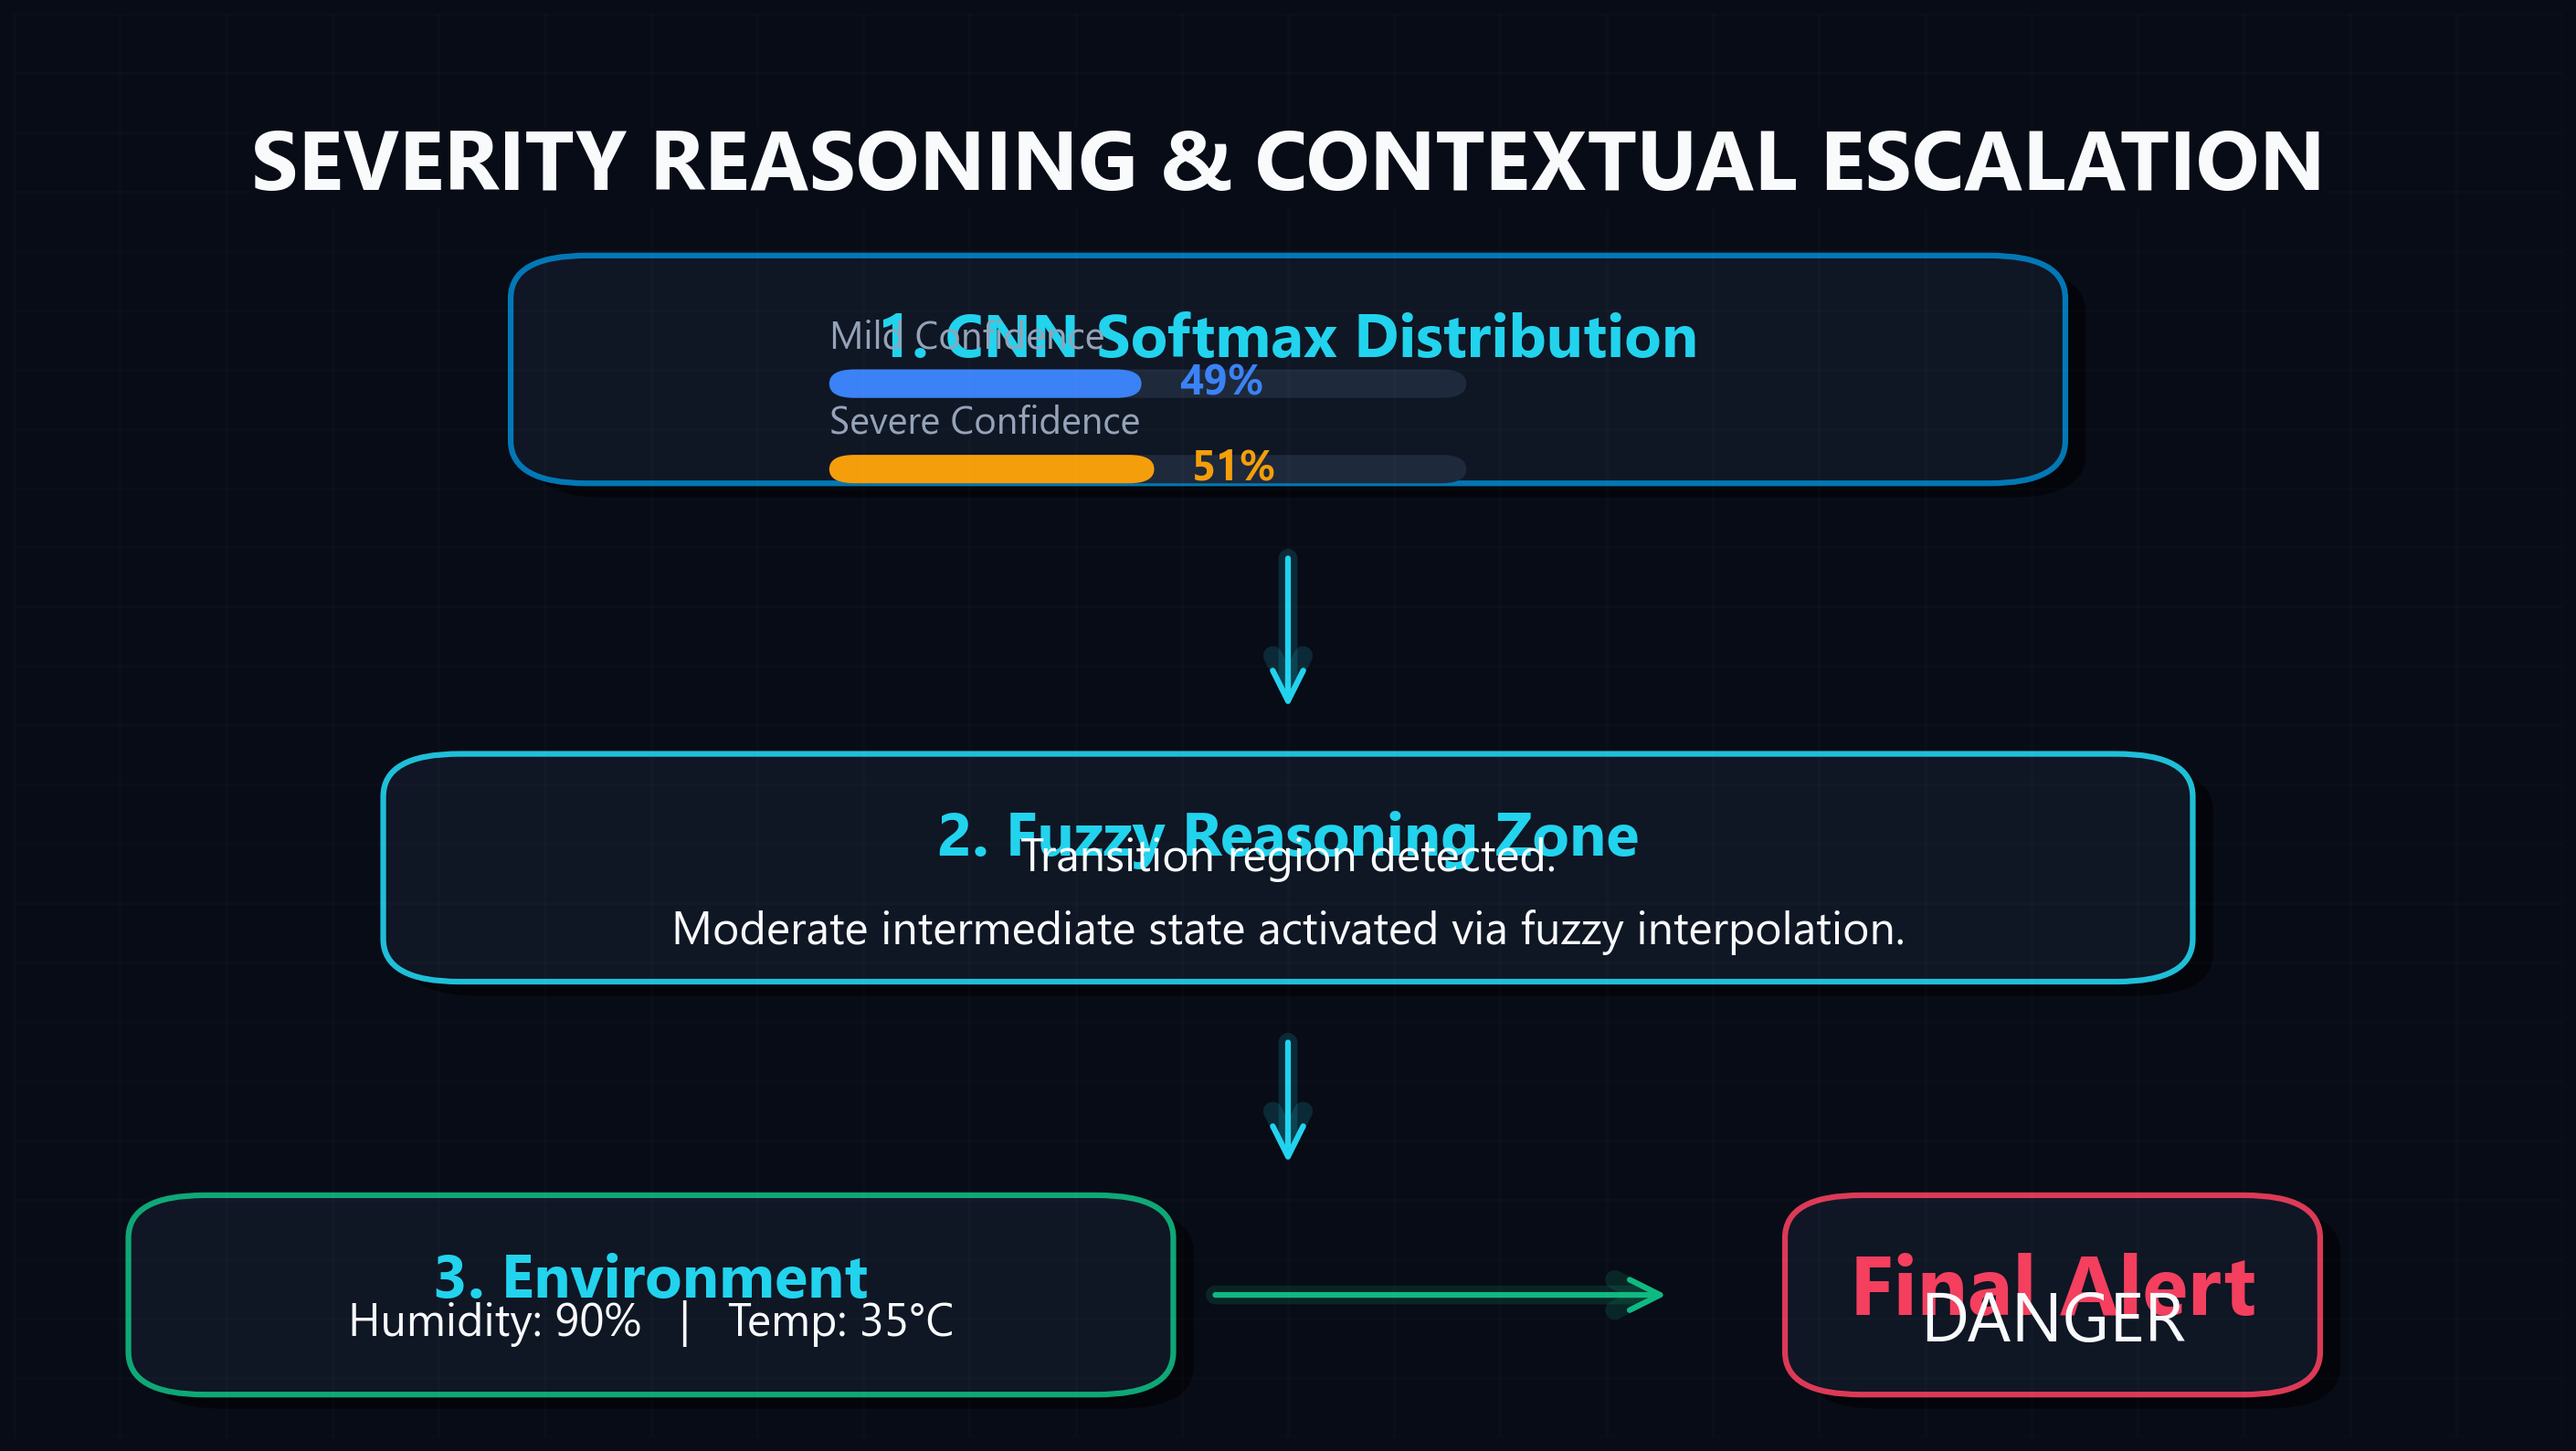
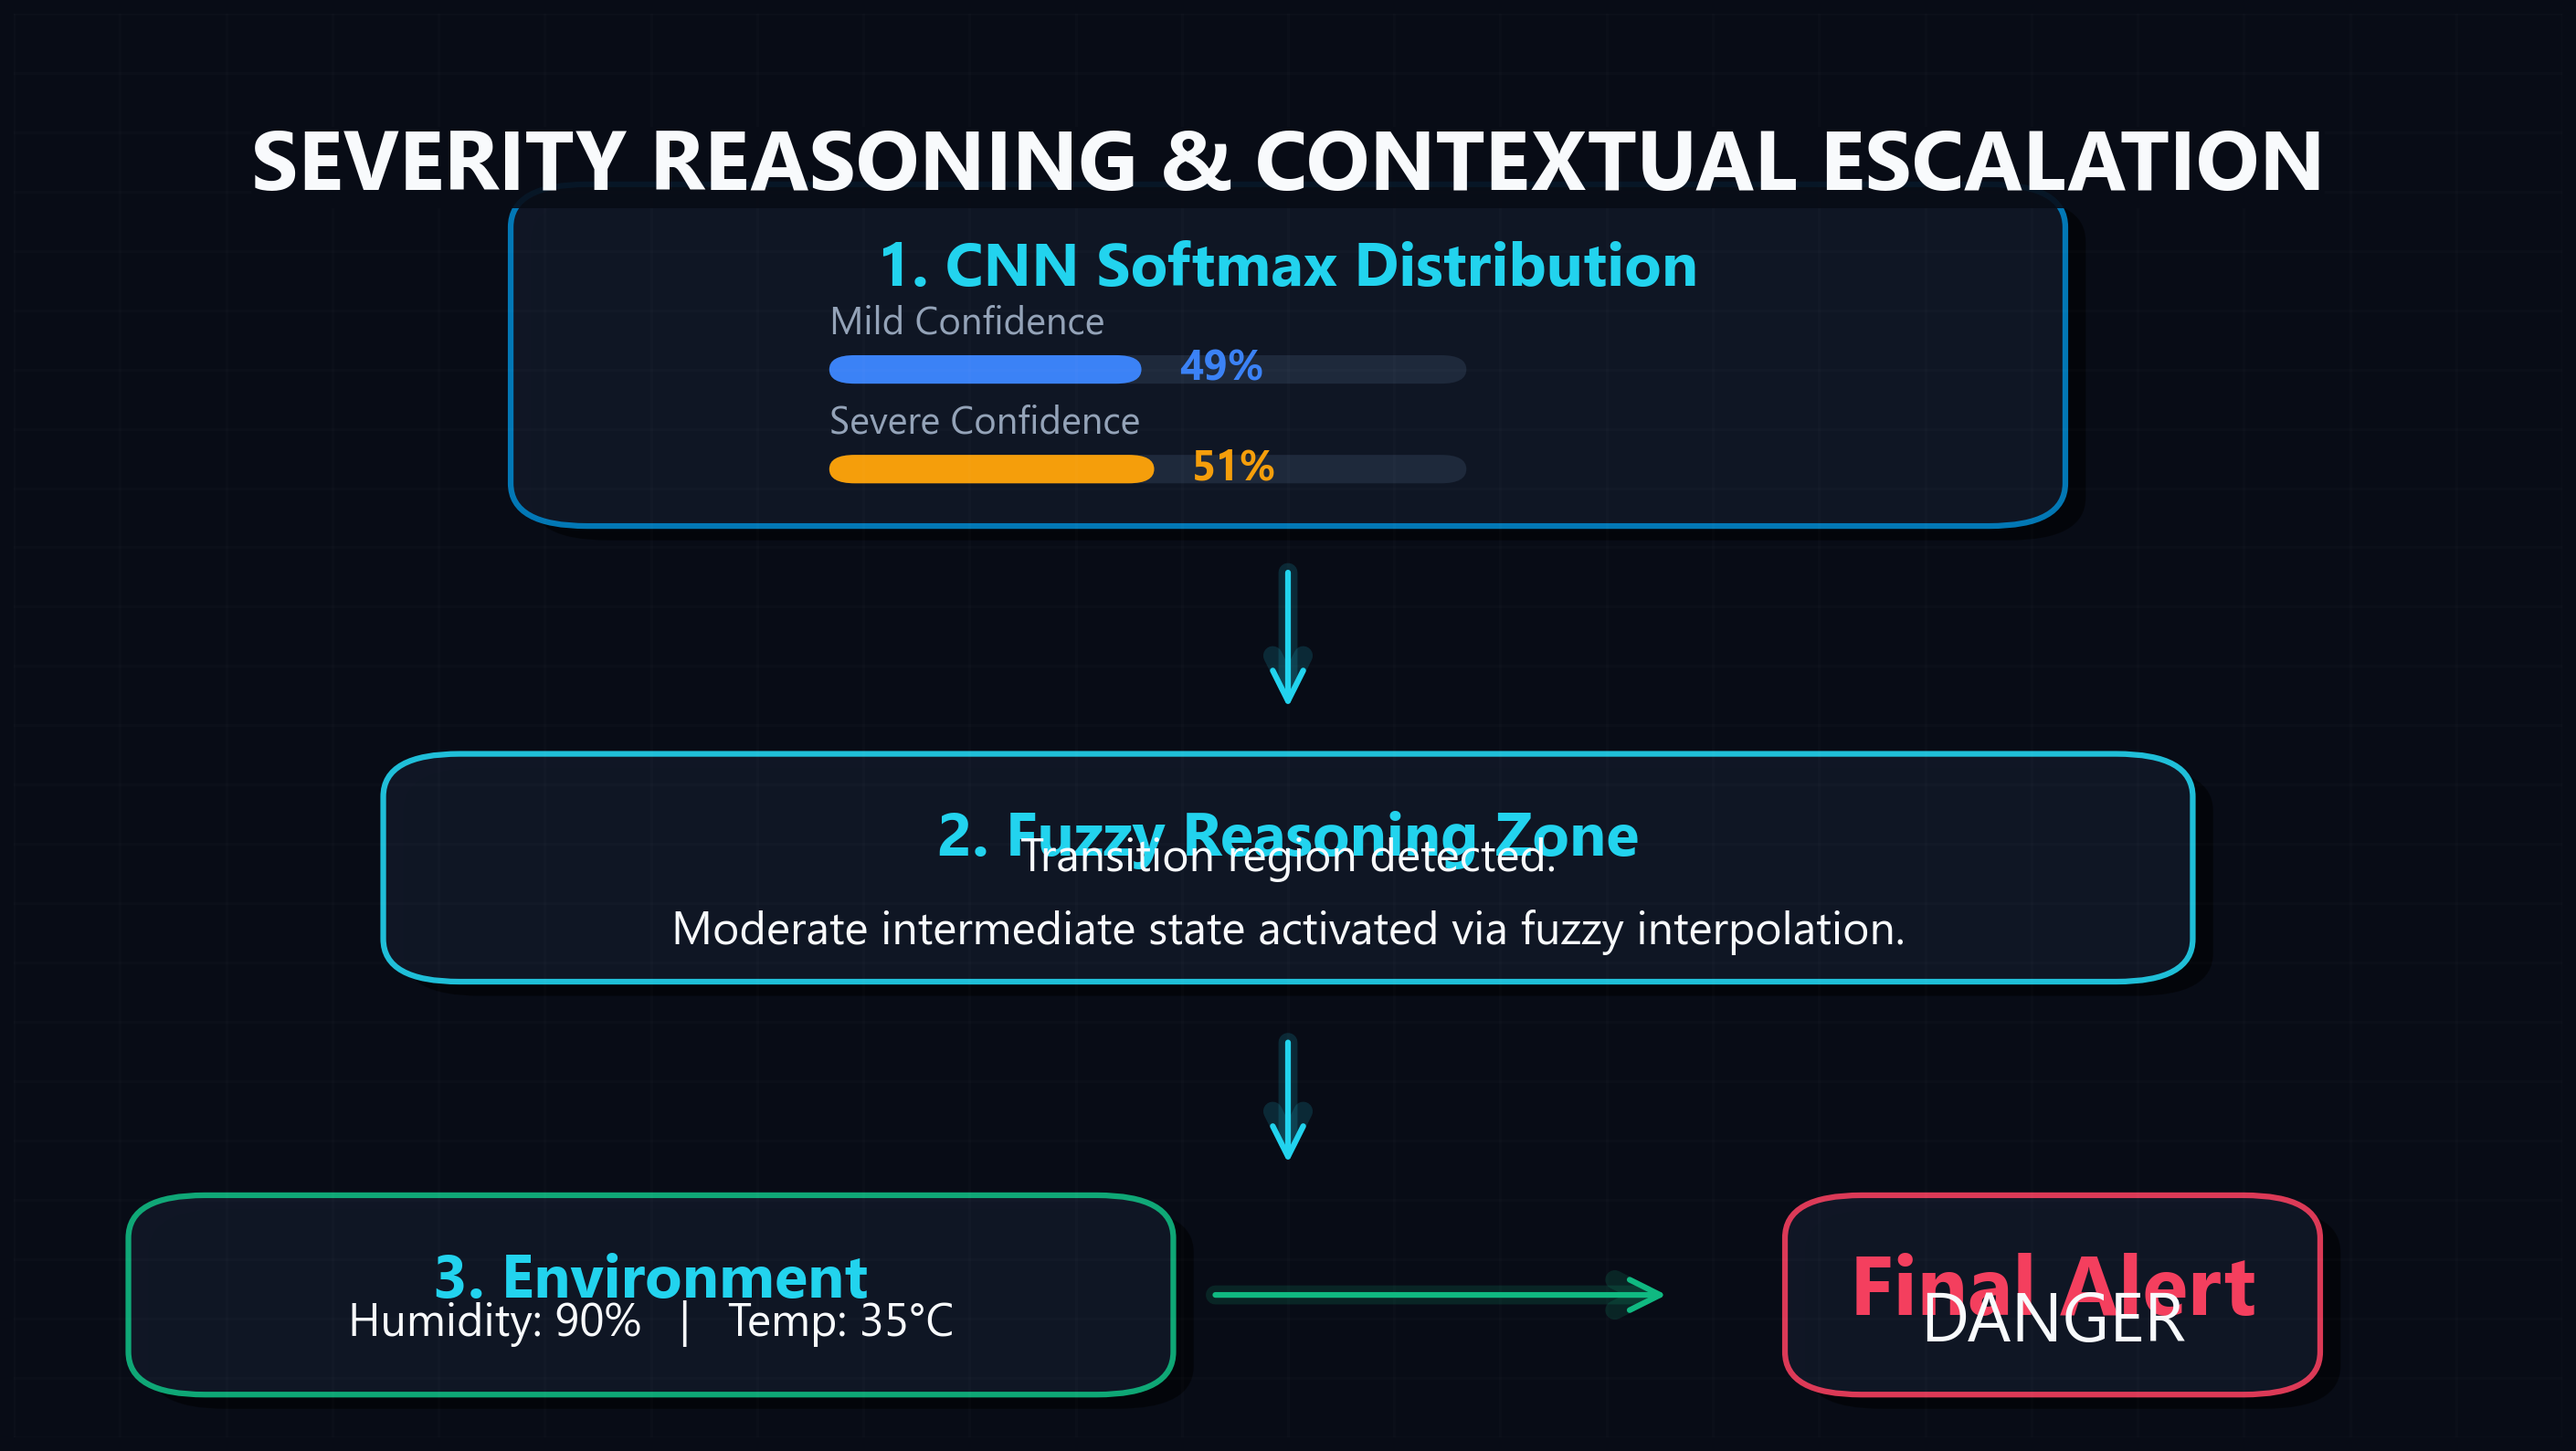
style: Fix overlapping text and bars in fig_02 severity pipeline

Changed region(s): [[0.1872, 0.1542, 0.8113, 0.2775], [0.1872, 0.3084, 0.8113, 0.37]]

diff --git a/scripts/generate_academic_figures.py b/scripts/generate_academic_figures.py
@@ -116,11 +116,11 @@ def fig_02_severity_pipeline():
     fig, ax = create_figure()
     draw_title(ax, "SEVERITY REASONING & CONTEXTUAL ESCALATION")
     
-    draw_glass_box(ax, 0.5, 0.75, 0.55, 0.1, title="1. CNN Softmax Distribution", border="#0284c7")
-    draw_bar(ax, 0.32, 0.73, 0.25, 0.02, 0.49, "#3b82f6", "Mild Confidence")
+    draw_glass_box(ax, 0.5, 0.76, 0.55, 0.18, title="1. CNN Softmax Distribution", border="#0284c7")
+    draw_bar(ax, 0.32, 0.74, 0.25, 0.02, 0.49, "#3b82f6", "Mild Confidence")
     draw_bar(ax, 0.32, 0.67, 0.25, 0.02, 0.51, WARNING_ORANGE, "Severe Confidence")
     
-    draw_glow_arrow(ax, 0.5, 0.62, 0.5, 0.51)
+    draw_glow_arrow(ax, 0.5, 0.61, 0.5, 0.51)
     
     draw_glass_box(ax, 0.5, 0.40, 0.65, 0.1, title="2. Fuzzy Reasoning Zone", 
                    text="Transition region detected.\nModerate intermediate state activated via fuzzy interpolation.", border=CYAN_GLOW, fontsize=24)
